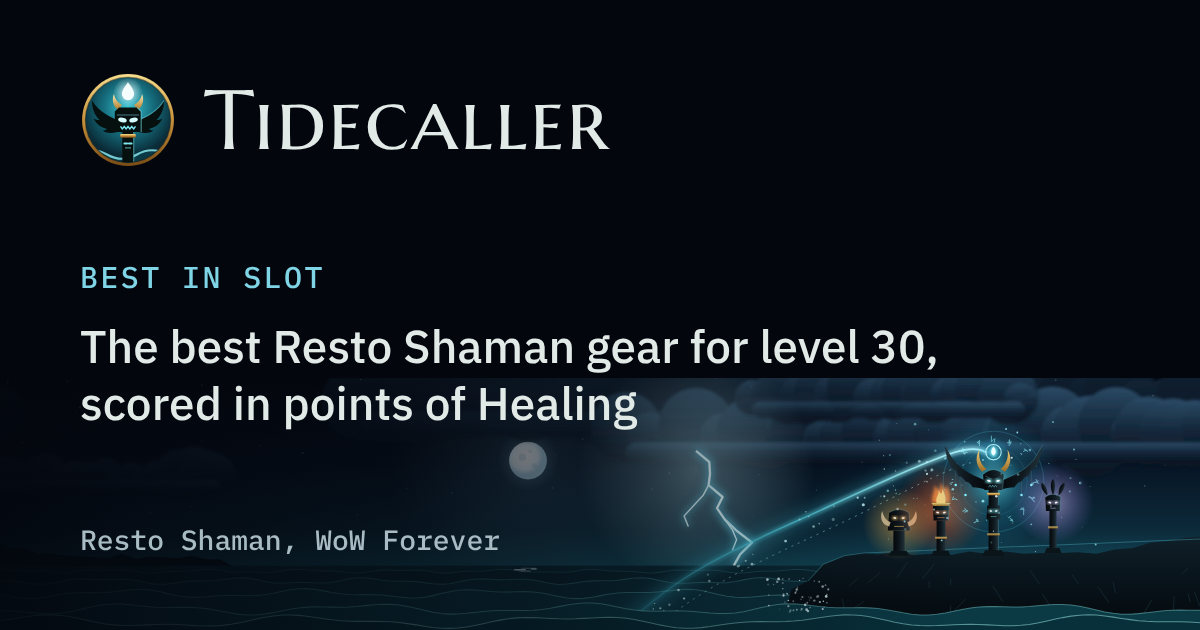
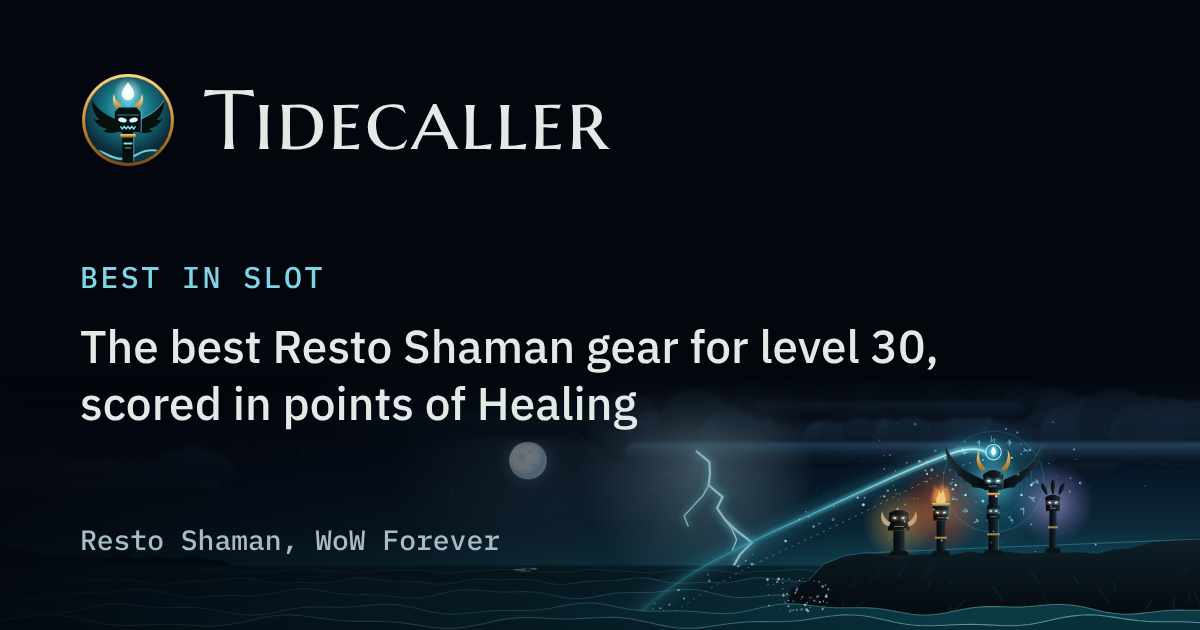
Review fixes and close run 003
- Calculator item links use the site's accent colour and show a focus
  outline (they were the browser's default blue).
- /items on phones: Where stays on one line and Equip keeps a minimum
  width, so rows stay even and the table scrolls sideways.
- Social cards: the art band fades in instead of starting on a hard edge.
- Run 003's prd.json and progress.txt move into its run folder.

Claude-Session: https://claude.ai/code/session_019VEYfxZowPjtKTXiPygQEi

Changed region(s): [[0.4933, 0.573, 1.0, 0.6937]]

diff --git a/src/styles/app.css b/src/styles/app.css
@@ -97,6 +97,8 @@ td.nm{font-family:var(--f-body);font-weight:500}
 img.icon{display:block;flex:none;border:1px solid #03060d;border-radius:3px;background:#03060d}
 .iname{display:inline-flex;align-items:center;gap:7px;vertical-align:middle}
 .iname img.icon{margin:0}
+.iname a{color:var(--accent)}
+.iname a:focus-visible{outline:2px solid var(--accent);outline-offset:2px}
 .item-h1{display:flex;align-items:center;gap:14px}
 tr.sel td{background:var(--accent-soft)}
 tr.click{cursor:pointer}
@@ -134,6 +136,8 @@ td.src{font-family:var(--f-body);font-size:12.5px;color:var(--muted);white-space
 table.items abbr{text-decoration:none;cursor:help}
 table.items td.src{min-width:0;max-width:240px;font-size:12px}
 table.items th.src{text-align:left}
+table.items td.eq{min-width:11em}
+table.items td.wh{white-space:nowrap;max-width:none}
 table.items td.nm{position:sticky;left:0;background:var(--bg);z-index:1;white-space:nowrap}
 table.items th:first-child{position:sticky;left:0;background:var(--bg);z-index:1}
 tr.cant td{opacity:.45}

diff --git a/src/pages/ItemPage.tsx b/src/pages/ItemPage.tsx
@@ -217,8 +217,8 @@ export function ItemsIndex() {
                       <td>{i.sp || ""}</td>
                       <td>{i.heal || ""}</td>
                       <td>{i.mp5 || ""}</td>
-                      <td className="src">{equipText(i)}</td>
-                      <td className="src" title={i.source}>{whereShort(i)}</td>
+                      <td className="src eq">{equipText(i)}</td>
+                      <td className="src wh" title={i.source}>{whereShort(i)}</td>
                       <td className="score">{fmt(r.boss, 1)}</td>
                     </tr>
                   );
